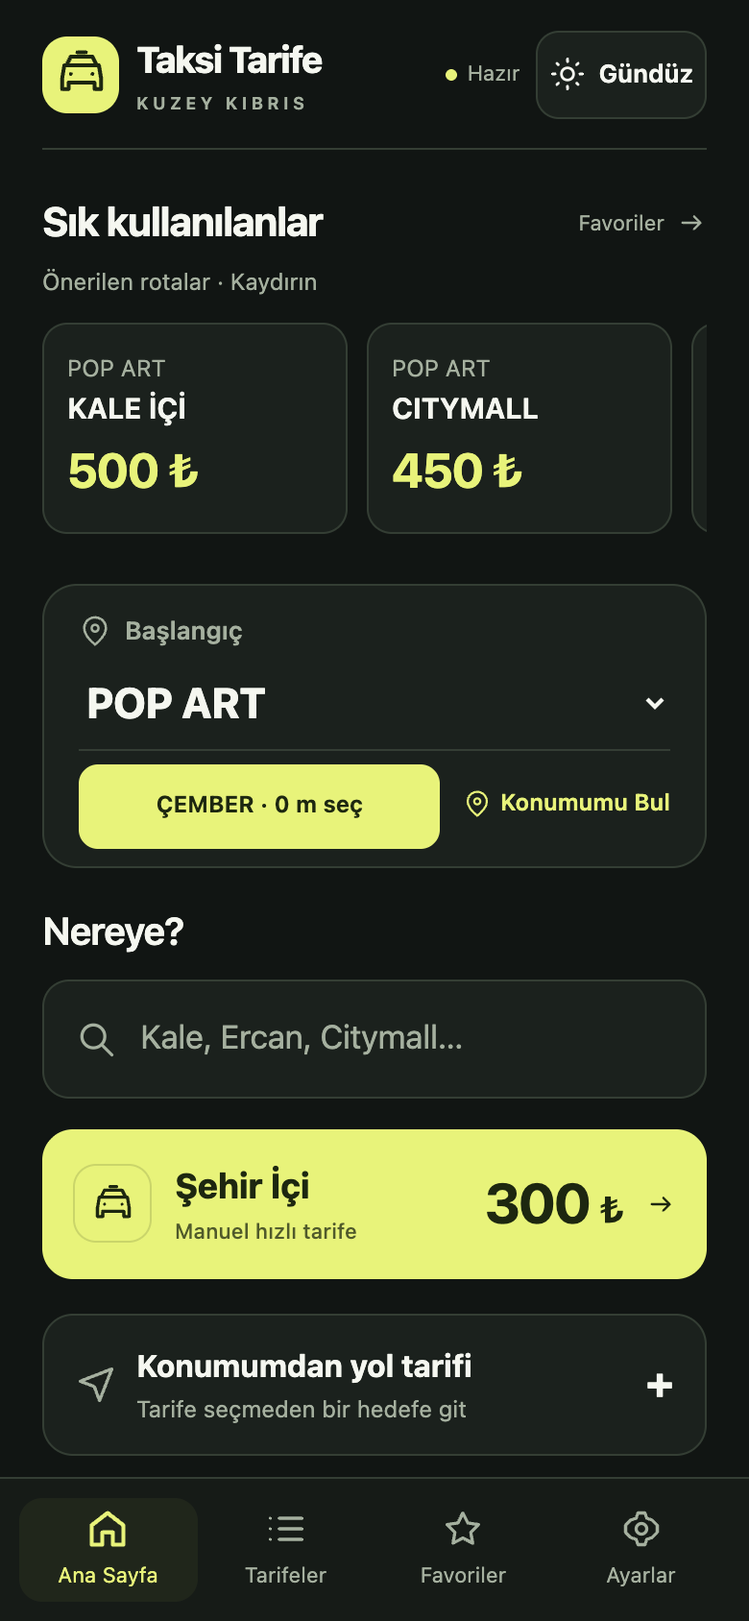
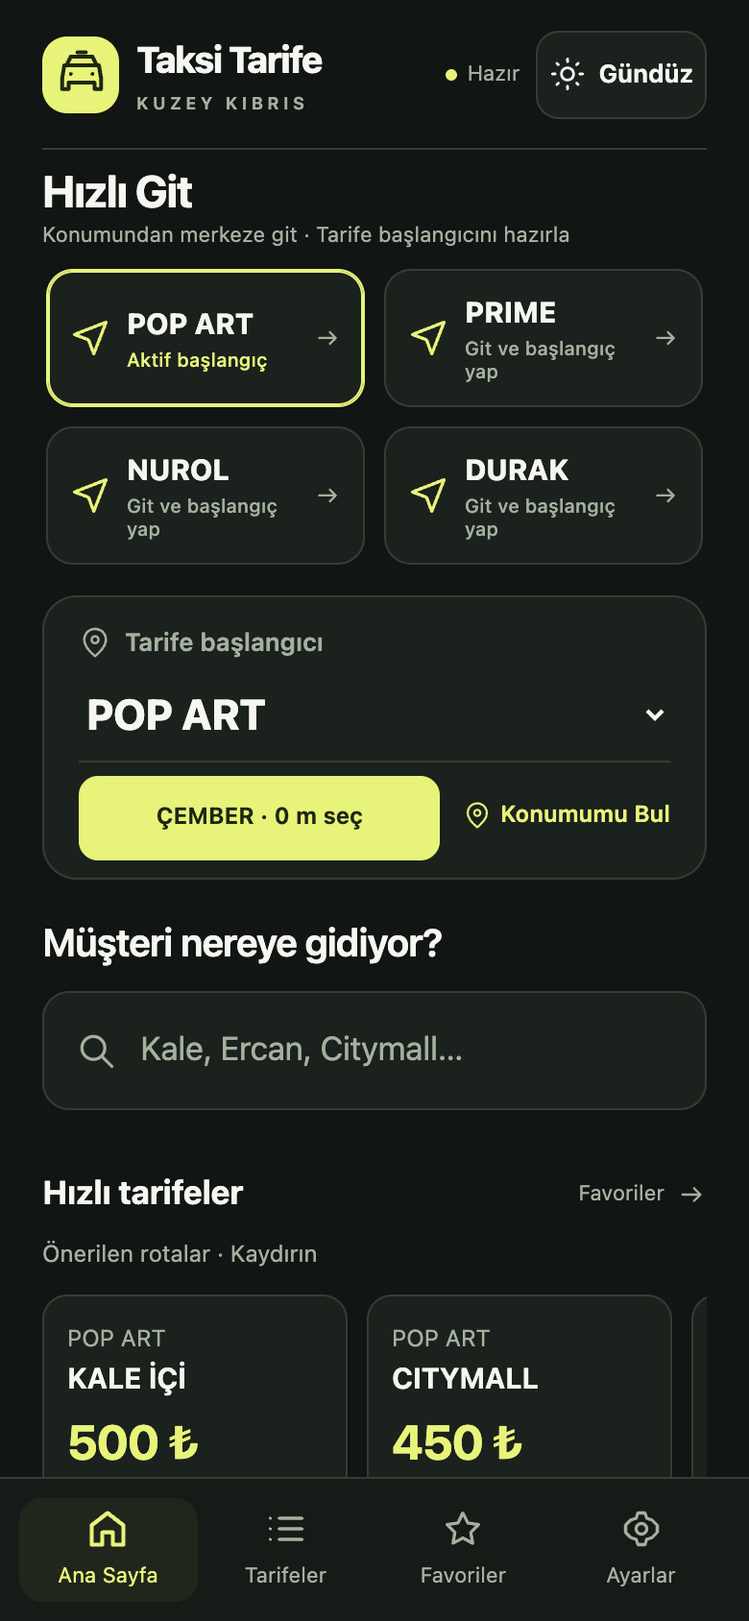
Optimize driver hub workflow

diff --git a/index.html b/index.html
@@ -45,16 +45,17 @@
     <div id="update-banner" class="update-banner" hidden><span>Yeni sürüm hazır</span><button id="update-button">Güncelle</button></div>
     <main id="main" tabindex="-1">
       <section id="page-home" class="page">
-        <section id="frequent-section" class="frequent-section" aria-labelledby="frequent-title"><div class="section-heading"><h1 id="frequent-title">Sık kullanılanlar</h1><a href="#favorites">Favoriler <svg aria-hidden="true"><use href="#i-arrow"/></svg></a></div><p id="frequent-description" class="section-note">Favoriler ve son rotalar · Yana kaydırın</p><div id="home-favorites" class="quick-grid" role="region" aria-label="Sık kullanılan rotalar, yatay liste" tabindex="0"></div></section>
+        <section id="quick-destinations" class="quick-destinations" aria-labelledby="quick-destinations-title"><div class="section-heading"><h1 id="quick-destinations-title">Hızlı Git</h1></div><p class="section-note">Konumundan merkeze git · Tarife başlangıcını hazırla</p><div id="hub-shortcuts" class="hub-grid" role="region" aria-label="Sık gidilen çalışma noktaları, yatay liste" tabindex="0"></div></section>
         <div class="origin-card">
-          <label for="origin"><svg><use href="#i-pin"/></svg> Başlangıç</label>
+          <label for="origin"><svg><use href="#i-pin"/></svg> Tarife başlangıcı</label>
           <select id="origin" aria-label="Başlangıç noktası"></select>
           <div class="location-line"><span id="gps-message" role="status">Başlangıç noktanızı seçin</span><button id="gps-suggestion" class="suggestion" hidden></button><button id="locate" class="text-button"><svg aria-hidden="true"><use href="#i-pin"/></svg> Konumumu Bul</button></div>
         </div>
-        <div class="search-block"><label for="destination">Nereye?</label><div class="search-field"><svg><use href="#i-search"/></svg><input id="destination" type="search" placeholder="Kale, Ercan, Citymall…" autocomplete="off" enterkeyhint="search" spellcheck="false"><button id="clear-search" class="icon-button" aria-label="Aramayı temizle" hidden>×</button></div></div>
+        <div class="search-block"><label for="destination">Müşteri nereye gidiyor?</label><div class="search-field"><svg><use href="#i-search"/></svg><input id="destination" type="search" placeholder="Kale, Ercan, Citymall…" autocomplete="off" enterkeyhint="search" spellcheck="false"><button id="clear-search" class="icon-button" aria-label="Aramayı temizle" hidden>×</button></div></div>
         <div id="home-search" hidden><p id="home-count" class="section-note" aria-live="polite"></p><div id="home-results" class="route-list"></div></div>
         <div id="fare-result" hidden aria-live="polite"></div>
         <div id="home-rest">
+          <section id="frequent-section" class="frequent-section route-shortcuts-section" aria-labelledby="frequent-title"><div class="section-heading"><h2 id="frequent-title">Hızlı tarifeler</h2><a href="#favorites">Favoriler <svg aria-hidden="true"><use href="#i-arrow"/></svg></a></div><p id="frequent-description" class="section-note">Favoriler ve son rotalar · Yana kaydırın</p><div id="home-favorites" class="quick-grid" role="region" aria-label="Sık kullanılan tarifeler, yatay liste" tabindex="0"></div></section>
           <button id="city-fare" class="city-button"><span class="city-icon"><svg><use href="#i-taxi"/></svg></span><span>Şehir İçi<small>Manuel hızlı tarife</small></span><strong>300 <span>₺</span></strong><svg><use href="#i-arrow"/></svg></button>
           
           <details class="settings-card navigation-card" id="navigation-panel"><summary><svg aria-hidden="true"><use href="#i-nav"/></svg><span>Konumumdan yol tarifi<small>Tarife seçmeden bir hedefe git</small></span><span class="disclosure" aria-hidden="true">+</span></summary><div class="navigation-content"><label for="navigation-target">Gidilecek konum</label><select id="navigation-target"></select><button id="navigate-current" class="primary-button full-width"><svg aria-hidden="true"><use href="#i-nav"/></svg> Bulunduğum Konumdan Git</button></div></details>
@@ -73,7 +74,7 @@
         <div class="settings-card"><h2>Tarifeleri düzenle</h2><p class="muted">Fiyat değişiklikleri sadece bu cihazda geçerlidir.</p><label for="edit-route">Rota seçin</label><select id="edit-route"></select><form id="edit-form"><label for="edit-price">Yeni ücret (₺)</label><div class="form-inline"><input id="edit-price" type="number" min="0.01" max="1000000" step="0.01" inputmode="decimal" required><button type="submit" class="primary-button">Kaydet</button></div></form><p id="original-price" class="muted"></p><button id="reset-route" class="secondary-button">Varsayılan tarifeye dön</button><button id="delete-route" class="danger-button" hidden>Özel rotayı sil</button></div>
         <div class="settings-card"><h2>Özel rota ekle</h2><form id="add-form"><label for="add-from">Başlangıç</label><input id="add-from" list="location-options" placeholder="Konum seçin veya yeni ad yazın" maxlength="100" required><label for="add-to">Varış</label><input id="add-to" list="location-options" placeholder="Konum seçin veya yeni ad yazın" maxlength="100" required><label for="add-price">Ücret (₺)</label><input id="add-price" type="number" min="0.01" max="1000000" step="0.01" inputmode="decimal" required><button type="submit" class="primary-button full-width">Rotayı ekle</button></form><datalist id="location-options"></datalist></div>
         <div class="settings-card"><h2>Veriler ve yedekleme</h2><p class="muted">Tarife dosyası mevcut değişikliklerle birleştirilir. Tam yedek, tarifeleri ve tüm tercihleri geri yükler.</p><button id="export-mods" class="secondary-button">Tarife değişikliklerini dışa aktar</button><button id="export-backup" class="secondary-button">Tüm ayarları JSON olarak yedekle</button><label class="secondary-button file-button" for="import-file">JSON verilerini içe aktar</label><input id="import-file" type="file" accept="application/json,.json" hidden><button id="reset-all" class="danger-button">Tüm yerel tarifeleri sıfırla</button><button id="clear-recents" class="secondary-button">Son kullanılanları temizle</button><button id="clear-favorites" class="secondary-button">Favorileri temizle</button><p id="data-status" class="muted"></p></div>
-        <p class="local-note">Taksi Tarife · v1.3.0 · Kuzey Kıbrıs</p>
+        <p class="local-note">Taksi Tarife · v1.4.0 · Kuzey Kıbrıs</p>
       </section>
     </main>
     <nav class="bottom-nav" aria-label="Ana menü"><a href="#home" data-tab="home" aria-current="page"><svg><use href="#i-home"/></svg><span>Ana Sayfa</span></a><a href="#fares" data-tab="fares"><svg><use href="#i-list"/></svg><span>Tarifeler</span></a><a href="#favorites" data-tab="favorites"><svg><use href="#i-star"/></svg><span>Favoriler</span></a><a href="#settings" data-tab="settings"><svg><use href="#i-settings"/></svg><span>Ayarlar</span></a></nav>

diff --git a/app.js b/app.js
@@ -10,6 +10,12 @@ let storage;
 try { storage = window.localStorage; } catch { storage = { getItem: () => null, setItem: () => { throw new Error('Storage unavailable'); } }; pendingWarning = 'Tarayıcı kayıt izni vermiyor. Değişiklikler bu oturumda kullanılabilir.'; }
 let state = readState(storage, message => { pendingWarning = message; });
 let rows, locations, locationMap, originChoices, selectedId = null, activePage = 'home', gpsSuggestion = null, deferredInstall = null, waitingWorker = null, registration = null;
+const workHubs = [
+  { id: 'pop-art', label: 'POP ART' },
+  { id: 'prime', label: 'PRIME' },
+  { id: 'nurol-arkasi', label: 'NUROL' },
+  { id: 'grand-aras-durak', label: 'DURAK' }
+];
 function refreshData() { rows = effectiveFares(state); locations = allLocations(state); locationMap = new Map(locations.map(l => [l.id, l])); originChoices = originsFor(rows, locations); }
 function persist() { if (!saveState(storage, state)) { toast('Kayıt yapılamadı. Değişiklikler bu oturumda kullanılabilir; JSON yedeği alın.'); return false; } return true; }
 const getRoute = id => id === cityFare.id ? cityFare : rows.find(r => r.id === id);
@@ -39,16 +45,31 @@ function listRoutes(target, list, empty, quick = false, grouped = false) {
   if (!list.length) fragment.append(el('p', 'empty-card', empty));
   target.replaceChildren(fragment);
 }
+function renderWorkHubs() {
+  const fragment = document.createDocumentFragment();
+  for (const hub of workHubs) {
+    const location = locationMap.get(hub.id); if (!location) continue;
+    const button = el('button', 'hub-shortcut'); button.type = 'button'; button.dataset.hub = hub.id;
+    button.setAttribute('aria-label', `${location.name} konumuna git ve tarife başlangıcı yap`);
+    if (state.settings.origin === hub.id) button.setAttribute('aria-current', 'true');
+    const text = el('span', 'hub-label', hub.label); text.append(el('small', '', state.settings.origin === hub.id ? 'Aktif başlangıç' : 'Git ve başlangıç yap'));
+    button.append(icon('nav'), text, icon('arrow')); fragment.append(button);
+  }
+  $('hub-shortcuts').replaceChildren(fragment);
+}
 function renderHome() {
+  renderWorkHubs();
   updateGPSSuggestion();
   const query = $('destination').value.trim();
   $('clear-search').hidden = !query;
   $('home-search').hidden = !query;
   $('fare-result').hidden = !!query || !selectedId;
   if (query) {
-    const matches = searchFares(rows, locations, query, state.settings.origin);
-    $('home-count').textContent = `${matches.length} rota${state.settings.origin ? ' · Seçili başlangıç önce gösterilir' : ''}`;
-    listRoutes($('home-results'), matches, 'Bu arama için tarife bulunamadı. Başka bir ad deneyin.', false, true);
+    const scoped = state.settings.origin ? rows.filter(r => r.from === state.settings.origin) : rows;
+    const matches = searchFares(scoped, locations, query, state.settings.origin);
+    const originName = locationMap.get(state.settings.origin)?.name;
+    $('home-count').textContent = `${matches.length} rota${originName ? ` · ${originName} başlangıcından` : ' · Tüm başlangıçlar'}`;
+    listRoutes($('home-results'), matches, originName ? `${originName} başlangıcından bu hedefe kayıtlı tarife yok. Başlangıcı değiştirin veya Tarifeler sekmesinde tüm rotaları arayın.` : 'Bu arama için tarife bulunamadı. Başka bir ad deneyin.', false, !state.settings.origin);
   } else if (selectedId) renderResult();
   $('frequent-section').hidden = !!selectedId || !!query;
   listRoutes($('home-recents'), state.recents.map(getRoute).filter(Boolean), 'Son baktığınız rotalar burada görünecek.');
@@ -81,6 +102,15 @@ function renderResult() {
     if (reverse) tools.append(action(`Ters yön · ${price(reverse.price)}`, 'secondary-button', () => selectRoute(reverse.id)));
     tools.append(action('Tarifeyi düzenle', 'secondary-button', () => { location.hash = 'settings'; renderSettings(); $('edit-route').value = r.id; renderEditor(); $('edit-route').scrollIntoView({ block: 'center' }); }));
     card.append(tools);
+    const nextStop = el('section', 'next-stop');
+    nextStop.append(el('p', 'next-stop-title', 'Yolculuk sonrası hızlı dönüş'));
+    const hubs = el('div', 'return-grid');
+    for (const hub of workHubs) {
+      const location = locationMap.get(hub.id); if (!location) continue;
+      const button = action(hub.label, 'return-button', () => goToWorkHub(hub.id), 'nav');
+      button.dataset.returnHub = hub.id; button.setAttribute('aria-label', `${location.name} konumuna dön`); hubs.append(button);
+    }
+    nextStop.append(hubs); card.append(nextStop);
   }
   card.append(action('Yeni rota ara', 'text-button', () => { selectedId = null; renderHome(); $('destination').focus(); }));
   $('fare-result').replaceChildren(card);
@@ -161,6 +191,14 @@ function launchNavigationTo(l, label = l?.name) {
     updatePermission();
   }, () => { updatePermission(); }, { enableHighAccuracy: true, timeout: 8000, maximumAge: 0 });
 }
+function goToWorkHub(id) {
+  const location = locationMap.get(id); if (!location) return;
+  if (originChoices.some(origin => origin.id === id)) {
+    state.settings.origin = id; $('origin').value = id; selectedId = null; $('destination').value = '';
+    persist(); renderHome();
+  }
+  launchNavigationTo(location);
+}
 $('navigation-target').onchange = () => { $('navigate-current').disabled = !$('navigation-target').value; };
 $('navigate-current').onclick = () => launchNavigationTo(locationMap.get($('navigation-target').value));
 document.querySelector('[data-tab="home"]').addEventListener('click', () => { selectedId = null; $('destination').value = ''; renderHome(); showPage(); });
@@ -171,7 +209,10 @@ $('confirm-cancel').onclick = () => { confirmCallback = null; $('confirm-dialog'
 $('confirm-accept').onclick = () => { $('confirm-dialog').close(); const callback = confirmCallback; confirmCallback = null; callback?.(); };
 document.querySelectorAll('[data-close-dialog]').forEach(b => b.onclick = () => b.closest('dialog').close());
 for (const id of ['apple-link', 'google-link']) $(id).addEventListener('click', () => $('navigation-dialog').close());
-document.addEventListener('click', e => { const button = e.target.closest('[data-route]'); if (button) selectRoute(button.dataset.route); });
+document.addEventListener('click', e => {
+  const hub = e.target.closest('[data-hub]'); if (hub) { goToWorkHub(hub.dataset.hub); return; }
+  const route = e.target.closest('[data-route]'); if (route) selectRoute(route.dataset.route);
+});
 $('origin').addEventListener('change', () => { state.settings.origin = $('origin').value; selectedId = null; persist(); renderHome(); });
 $('destination').addEventListener('input', renderHome);
 $('clear-search').onclick = () => { $('destination').value = ''; renderHome(); $('destination').focus(); };

diff --git a/tests/browser.test.js b/tests/browser.test.js
@@ -17,7 +17,7 @@ const server = createServer(async (req, res) => {
   try {
     if (!file.startsWith(root+sep)) throw Error();
     let data = await readFile(file);
-    if(updateAvailable && file.endsWith('service-worker.js')) data = Buffer.from(data.toString().replace("'v1.3.0'","'v1.3.1-test'"));
+    if(updateAvailable && file.endsWith('service-worker.js')) data = Buffer.from(data.toString().replace("'v1.4.0'","'v1.4.1-test'"));
     res.writeHead(200,{'Content-Type':mime[extname(file)]||'application/octet-stream','Cache-Control':'no-store'}); res.end(data);
   } catch { res.writeHead(404); res.end('Not found'); }
 });
@@ -37,8 +37,15 @@ try {
     await page.locator('#gps-suggestion').click(); assert.equal(await page.locator('#origin').inputValue(),'cember');
     await page.locator('#origin').selectOption('pop-art');
     assert.equal(await page.locator('#origin option').count(),13);
+    assert.equal(await page.locator('#hub-shortcuts [data-hub]').count(),4);
     assert.equal(await page.locator('#home-favorites [data-route]').count(),6);
-    assert.equal(await page.evaluate(()=>document.querySelector('#frequent-section').compareDocumentPosition(document.querySelector('.origin-card')) & Node.DOCUMENT_POSITION_FOLLOWING),4);
+    assert.equal(await page.evaluate(()=>document.querySelector('#quick-destinations').compareDocumentPosition(document.querySelector('.origin-card')) & Node.DOCUMENT_POSITION_FOLLOWING),4);
+    await page.locator('#hub-shortcuts [data-hub="prime"]').click();
+    assert.equal(await page.locator('#origin').inputValue(),'prime');
+    assert.match(await page.locator('#navigation-destination').innerText(),/PRIME/);
+    assert.equal(await page.locator('#navigation-dialog').isVisible(),true);
+    await page.locator('[data-close-dialog]').click();
+    await page.locator('#origin').selectOption('pop-art');
     for (const viewport of [{width:320,height:568},{width:375,height:667},{width:390,height:844},{width:412,height:915}]) {
       await page.setViewportSize(viewport);
       const layout = await page.evaluate(()=>({searchBottom:document.querySelector('#destination').getBoundingClientRect().bottom,navTop:document.querySelector('.bottom-nav').getBoundingClientRect().top,bodyWidth:document.documentElement.scrollWidth}));
@@ -69,8 +76,13 @@ try {
     assert.equal(await page.locator('#all-results [data-route]').count(),166);
     assert.equal(await page.evaluate(()=>document.documentElement.scrollWidth<=innerWidth),true);
     await page.screenshot({path:`/tmp/taksi-home${prefix==='/'?'-root':''}.png`,fullPage:true});
-    await page.locator('#destination').fill('kale'); await page.locator('#home-results [data-route="pop-art--kale-ici"]').click();
+    await page.locator('#destination').fill('kale');
+    assert.equal(await page.locator('#home-results [data-route]').count(),2);
+    assert.equal(await page.evaluate(()=>[...document.querySelectorAll('#home-results [data-route]')].every(button=>button.dataset.route.startsWith('pop-art--'))),true);
+    assert.match(await page.locator('#home-count').innerText(),/POP ART başlangıcından/);
+    await page.locator('#home-results [data-route="pop-art--kale-ici"]').click();
     assert.match(await page.locator('#fare-result').innerText(),/500 ₺/);
+    assert.equal(await page.locator('#fare-result [data-return-hub]').count(),4);
     await page.waitForFunction(()=>{const p=document.querySelector('.fare-price').getBoundingClientRect();return p.top>=document.querySelector('.app-header').getBoundingClientRect().bottom && p.bottom<innerHeight-document.querySelector('.bottom-nav').offsetHeight;});
     assert.equal(await page.evaluate(()=>{const b=document.querySelector('#theme-toggle').getBoundingClientRect();return b.top>=0 && b.bottom<innerHeight && b.height>=44;}),true);
     await page.getByRole('button',{name:'Favoriye Ekle',exact:true}).click();
@@ -80,6 +92,11 @@ try {
     await page.waitForFunction(()=>document.querySelector('#google-link').href.includes('origin=35.129723%2C33.9285231'));
     assert.match(await page.locator('#navigation-start').innerText(),/Bulunduğum konum/);
     await page.locator('[data-close-dialog]').click();
+    await page.locator('#fare-result [data-return-hub="nurol-arkasi"]').click();
+    assert.equal(await page.locator('#origin').inputValue(),'nurol-arkasi');
+    assert.match(await page.locator('#navigation-destination').innerText(),/NUROL ARKASI/);
+    await page.locator('[data-close-dialog]').click();
+    await page.locator('#origin').selectOption('pop-art');
     await page.locator('[data-tab="home"]').click();
     assert.equal(await page.locator('#home-favorites [data-route]').first().getAttribute('data-route'),'pop-art--kale-ici');
     assert.equal(await page.locator('#frequent-section').isVisible(),true);
@@ -146,7 +163,7 @@ try {
     await page.screenshot({path:`/tmp/taksi-result${prefix==='/'?'-root':''}.png`});
     await context.setOffline(false); updateAvailable=true;
     await page.evaluate(async()=>{const r=await navigator.serviceWorker.getRegistration();await r.update();}); await page.locator('#update-banner').waitFor({state:'visible'}); await page.locator('#update-button').click();
-    await page.waitForFunction(async()=> (await caches.keys()).some(k=>k.endsWith('v1.3.1-test')) && document.querySelector('#update-banner').hidden);
+    await page.waitForFunction(async()=> (await caches.keys()).some(k=>k.endsWith('v1.4.1-test')) && document.querySelector('#update-banner').hidden);
     assert.equal(await page.evaluate(async()=>(await caches.keys()).filter(k=>k.startsWith('taksi-tarife:')).length),1);
     assert.equal(errors.length,0,JSON.stringify(errors));
     if(prefix!=='/') assert.ok(requests.every(p=>p.startsWith(prefix)||p==='/favicon.ico'));

diff --git a/styles.css b/styles.css
@@ -28,3 +28,7 @@
 button:focus-visible,a:focus-visible,input:focus-visible,select:focus-visible,.settings-card summary:focus-visible,#home-favorites:focus-visible{outline:3px solid var(--focus);outline-offset:3px}
 .search-field:focus-within{border-color:var(--focus);box-shadow:0 0 0 1px var(--focus)}
 .settings-card summary{min-height:44px;display:flex;align-items:center;font-weight:700;cursor:pointer}.settings-card a{color:var(--text);text-decoration:underline}#coordinate-form button{margin-top:12px}#gps-details,#coordinate-info{overflow-wrap:anywhere}#gps-message{overflow-wrap:anywhere}
+
+/* v1.4 driver loop: current position -> work hub -> passenger -> return hub */
+.quick-destinations{margin:8px 0 14px}.quick-destinations .section-heading{margin-bottom:0}.quick-destinations h1{font-size:23px;margin:0;letter-spacing:-.5px}.quick-destinations>.section-note{margin:0 0 8px;font-size:11px}.hub-grid{display:grid;grid-template-columns:repeat(2,minmax(0,1fr));gap:10px;padding:2px}.hub-shortcut{display:grid;grid-template-columns:auto 1fr auto;align-items:center;gap:8px;min-height:72px;padding:10px 11px;border:1px solid var(--line);border-radius:14px;background:var(--surface);color:var(--text);text-align:left}.hub-shortcut:hover{background:var(--surface-hover)}.hub-shortcut>svg:first-child{color:var(--accent)}.hub-shortcut>svg:last-child{width:15px;color:var(--muted)}.hub-label{font-size:15px;font-weight:750;line-height:1.2;min-width:0}.hub-label small{display:block;color:var(--muted);font-size:10px;font-weight:500;margin-top:4px}.hub-shortcut[aria-current=true]{border-color:var(--accent);box-shadow:inset 0 0 0 1px var(--accent)}.hub-shortcut[aria-current=true] .hub-label small{color:var(--accent)}.route-shortcuts-section{margin-top:22px}.route-shortcuts-section h2{font-size:17px;margin:0}.next-stop{border-top:1px solid var(--line);margin-top:18px;padding-top:16px}.next-stop-title{font-size:13px;color:var(--muted);font-weight:650;margin-bottom:10px}.return-grid{display:grid;grid-template-columns:1fr 1fr;gap:8px}.return-button{display:flex;align-items:center;justify-content:flex-start;gap:7px;min-height:48px;padding:9px 11px;border:1px solid var(--line);border-radius:11px;background:var(--surface-hover);color:var(--text);font-size:12px;font-weight:700}.return-button svg{width:16px;color:var(--accent)}.return-button:hover{border-color:var(--accent)}#hub-shortcuts:focus-visible{outline:3px solid var(--focus);outline-offset:3px}
+@media(max-width:370px) and (max-height:700px){.quick-destinations{margin-top:2px;margin-bottom:6px}.quick-destinations>.section-note{font-size:10px;margin-bottom:3px}.hub-grid{gap:6px}.hub-shortcut{min-height:58px;padding:6px 8px;gap:5px}.hub-shortcut>svg{width:18px}.hub-label{font-size:13px}.hub-label small{font-size:8px;margin-top:2px}.origin-card{padding-top:7px}.search-block{margin-top:10px}}

diff --git a/service-worker.js b/service-worker.js
@@ -1,5 +1,5 @@
 // Bump VERSION for every release, including fare-data changes.
-const VERSION = 'v1.3.0';
+const VERSION = 'v1.4.0';
 const BASE = new URL('./', self.location.href);
 const PREFIX = `taksi-tarife:${BASE.pathname}:`;
 const CACHE = PREFIX + VERSION;

diff --git a/README.md b/README.md
@@ -22,15 +22,17 @@ All application URLs are relative. Hash tabs (`#home`, `#fares`, `#favorites`, `
 
 ## Driver workflow
 
-- The home screen opens with **Sık kullanılanlar**: up to six routes in a horizontal, swipeable row, saved favorites first, then recent routes, then suggestions from the selected origin. The starting point and destination search remain visible on small phone screens. Tapping **Ana Sayfa** returns to this list.
-- Choose a starting point. Origins are generated from the effective fares and ordered by route count; custom origins automatically appear.
-- Tap a quick destination or enter **Nereye?** Search handles Turkish letters, dotted/dotless I, punctuation, and aliases. Matches from the selected origin come first; other origins remain searchable. Choose **Tüm başlangıçlar** to search all routes.
+- The home screen opens with four fixed **Hızlı Git** actions: **Pop Art**, **Prime**, **Nurol**, and **Durak**. One tap prepares that location as the fare origin and opens directions from the driver's current location. Pop Art, Prime, and Nurol use verified pins. Grand Aras Durak currently uses its navigation search text until an exact pin is supplied.
+- The selected fare origin remains prominent below those actions. Origins are generated from the effective fares and ordered by route count; custom origins automatically appear.
+- Enter the passenger destination under **Müşteri nereye gidiyor?** Search handles Turkish letters, dotted/dotless I, punctuation, and aliases, and is intentionally limited to the selected origin to prevent the wrong origin fare being chosen in the vehicle. Use **Tarifeler** to search across all origins.
+- The fare card includes **Pop Art / Prime / Nurol / Durak** return actions. Each prepares the next fare origin while opening current-location directions back to that work hub.
+- Up to six favorite, recent, or suggested fare routes remain available under **Hızlı tarifeler**, below the primary pickup workflow.
 - The selected fare appears prominently. Open navigation, save the complete route as a favorite, or look up the reverse route **only when an explicitly priced reverse route exists**.
 - Up to six favorites are prioritized on the home screen; all saved favorites are in **Favoriler**. Recent lookups keep the last ten distinct routes. Selecting a favorite or recent route restores its origin and **current effective price**, including any local change.
 - **Şehir İçi** is a manual quick fare. It never changes the price of a listed route. It can also be saved as a favorite or recent quick fare.
 - A labeled, sticky header button switches between **Gece** and **Gündüz** in one tap, including while viewing a fare. The button names the mode it will switch to. The choice is stored locally and applied before the first paint on reopen, including offline. **Ayarlar → Tema** also offers **Sisteme göre**, which follows the phone theme. Choose Apple Maps, Google Maps, or ask-every-time navigation in **Ayarlar**. On iPhone/iPad, the navigation chooser puts Apple Maps first.
 
-**Bulunduğum Konumdan Git** on the fare card opens directions from your actual device location to the selected destination. The collapsible **Konumumdan yol tarifi** area on the home screen also supports every registered location, even when no fare exists from the chosen tariff origin. The tariff origin is never used as the navigation start and no GPS-based fare is invented. The map chooser refreshes GPS without delaying its opening; if browser GPS is unavailable, Apple Maps requests Current Location and Google Maps uses its default current-location origin. With a preferred maps app, that app resolves current location directly.
+**Bulunduğum Konumdan Git** on the fare card opens directions from your actual device location to the selected destination. The four **Hızlı Git** and four fare-card return actions do the same for work hubs while explicitly setting the next fare origin. The collapsible **Konumumdan yol tarifi** area on the home screen also supports every registered location, even when no fare exists from the chosen tariff origin. The tariff origin is never used as the navigation start and no GPS-based fare is invented. The map chooser refreshes GPS without delaying its opening; if browser GPS is unavailable, Apple Maps requests Current Location and Google Maps uses its default current-location origin. With a preferred maps app, that app resolves current location directly.
 
 Only navigation launches an external map. Maps are not embedded. Fare lookup never contacts an external service. Navigation may require an internet connection or offline maps configured in the selected maps app.
 
@@ -121,6 +123,6 @@ Tests cover all 166 source prices/labels and group counts; unique route keys; Tu
 
 The browser tests use a local static server and simulate a newer worker in its responses without modifying repository files. Review screenshots go to `review/`; other diagnostic screenshots go to the OS temporary directory. No test server, database, or third-party network request is needed by the production app.
 
-## Home-screen review (v1.2.0)
+## Home-screen review (v1.4.0)
 
 The driver workflow review and resulting layout changes are documented in [UX-REVIEW.md](./UX-REVIEW.md). Screenshots: [night mode](./review/gece.png) and [day mode](./review/gunduz.png). These review images are not loaded by the app or added to the offline shell.

diff --git a/UX-REVIEW.md b/UX-REVIEW.md
@@ -1,10 +1,13 @@
-# Ana sayfa kullanım incelemesi — v1.2.0
+# Ana sayfa kullanım incelemesi — v1.4.0
 
-Taksi sürücüsü için ana akış doğru: sık kullanılan rota → büyük ücret → mevcut konumdan navigasyon. Önceki düzenin sorunu, altı kartın üç satır kaplayıp başlangıç ve arama alanını aşağı itmesiydi. Bağımsız navigasyon formu da sürekli açık olduğundan ana sayfayı gereksiz uzatıyordu.
+Taksi sürücüsünün gerçek ana akışı: bulunduğu yer → sık gidilen çalışma noktası → müşteri hedefi → çalışma noktasına dönüş. Önceki düzen ücret rotalarını en üste taşıyor, çalışma noktasına gitmeyi ise kapalı ve alfabetik bir hedef seçicinin içine saklıyordu. Doğrudan navigasyon ayrıca seçilen tarife başlangıcını değiştirmediğinden sürücü yeni noktaya vardığında yanlış başlangıç tarifesini arayabiliyordu.
 
 Yapılan düzenlemeler:
 
-- **Sık kullanılanlar ilk sırada.** Altı rota tek yatay sırada; favoriler, son kullanılanlar ve seçili başlangıçtan öneriler bu sırayla yer alır. Başlangıç ve varış adları her kartta görünür. Favoriler sekmesinde tam listeye erişilir. Hiç geçmiş yokken öneriler olduğu açıkça belirtilir.
+- **Çalışma noktaları ilk sırada.** Pop Art, Prime, Nurol ve Durak tek ekranda dört büyük düğme olarak görünür. Dokunmak mevcut konumdan navigasyonu açar ve aynı noktayı bir sonraki müşteri tarifesinin başlangıcı yapar.
+- **Yanlış başlangıç tarifesi engellenir.** Ana sayfa hedef araması yalnızca seçili tarife başlangıcının rotalarını gösterir. Tüm başlangıçlarda arama Tarifeler sekmesinde korunur.
+- **Dönüş tek dokunuştur.** Ücret kartında Pop Art, Prime, Nurol ve Durak dönüş düğmeleri bulunur; dönüş hedefi aynı anda sonraki tarife başlangıcı olur.
+- **Hızlı tarifeler ikincil sırada.** Altı rota tek yatay sırada; favoriler, son kullanılanlar ve seçili başlangıçtan öneriler bu sırayla yer alır. Favoriler sekmesinde tam listeye erişilir.
 - **Başlangıç ve Nereye? ilk ekranda.** 320×568 dahil test edilen telefon boyutlarında arama alanı alt menünün arkasında kalmaz. GPS önerisi konum satırında yer alır; seçilen başlangıç kendiliğinden değişmez.
 - **Gece ve gündüz modu görünür.** Üstteki düğme geçilecek modu adıyla gösterir. Başlık kaydırırken görünür kaldığı için ücret kartında da tema değiştirilebilir. Seçim yerelde saklanır ve sayfa açılırken ilk boyamadan önce uygulanır. Sistem teması seçeneği de vardır.
 - **Navigasyon alanı açılıp kapanır.** Sürücü tarife seçmeden herhangi bir kayıtlı hedefe gitmek istediğinde açar. Ücret kartındaki mevcut konumdan navigasyon düğmesi doğrudan kullanılabilir.
@@ -13,4 +16,4 @@ Yapılan düzenlemeler:
 
 Kontroller: 320×568, 375×667, 390×844 ve 412×915 ekranlar; gece/gündüz geçişi; yeniden açılışta ve çevrimdışı tema kalıcılığı; sistem temasını izleme; yatay liste ve sayfa taşması; GPS; mevcut konumdan navigasyon; tarife işlemleri; `/` ve `/taksi-tarife/` altında çevrimdışı kullanım ve sürüm güncellemesi. Chromium tarayıcı otomasyonuyla kontrol edildi; fiziksel cihazda araç içi kullanım testi yapılmadı.
 
-Kullanım önerisi: sık kullanılan altı rotayı favorilere kaydetmek en kısa akışı sağlar. Bu rotaların fiyatı tek dokunuşla açılır; navigasyon ikinci dokunuşla seçilir.
+Kullanım önerisi: Ayarlar'dan Apple Maps veya Google Maps'i varsayılan seçmek, çalışma noktası ve dönüş navigasyonlarını doğrudan tek dokunuşa indirir. Grand Aras Durak için kesin koordinat kaydedilene kadar harita uygulaması hedef adını arar.

diff --git a/VERIFICATION.md b/VERIFICATION.md
@@ -1,10 +1,11 @@
-# Verification — Taksi Tarife v1.3.0
+# Verification — Taksi Tarife v1.4.0
 
 - 166 source fares verified against data/source.txt, retaining every source label and price.
 - 63 location IDs, 42 sourced coordinate pairs (27 POI, 15 area references), 21 unresolved pins. No invented GPS coordinates; source table and unresolved names in COORDINATES.md.
 - Zero duplicate fare route combinations. 300 TL manual city fare remains separate.
 - 17 automated core/GPS tests passed: filtering, Turkish normalization, price overrides, favorites, recents, reverse/custom routes, JSON import/export, coordinate edits, source/path audits, nearest-origin ambiguity/radius/accuracy, fresh device position, timeout guard and late callbacks.
 - Chromium browser tests passed at / and /taksi-tarife/: direct static loading, all fares, touch layouts at four mobile sizes, night/day/system themes, navigation from device GPS, coordinate edit/save/reset/backup, import/export, offline reload, worker update.
+- Driver-loop checks passed: all four work hubs visible without horizontal scrolling, hub navigation also updates fare origin, passenger search stays inside that origin, and every fare card exposes four one-tap return actions.
 - Six GPS sensor/error simulations passed: permission denied, unavailable, timeout, low accuracy, distant location, invalid sample. Lookup remains usable; successful retry preserves active fare/origin. All six retain visible search at 320×568.
 - No production packages, backend, database, keys, geocoding requests, or external fare service. The only fetch calls are same-origin shell caching; external maps are opened on a driver action.
 - Real iPhone/Android hardware GPS fixes and location permissions are controlled by the device and browser; tests simulate sensor behavior and do not certify on-road pickup pins.
